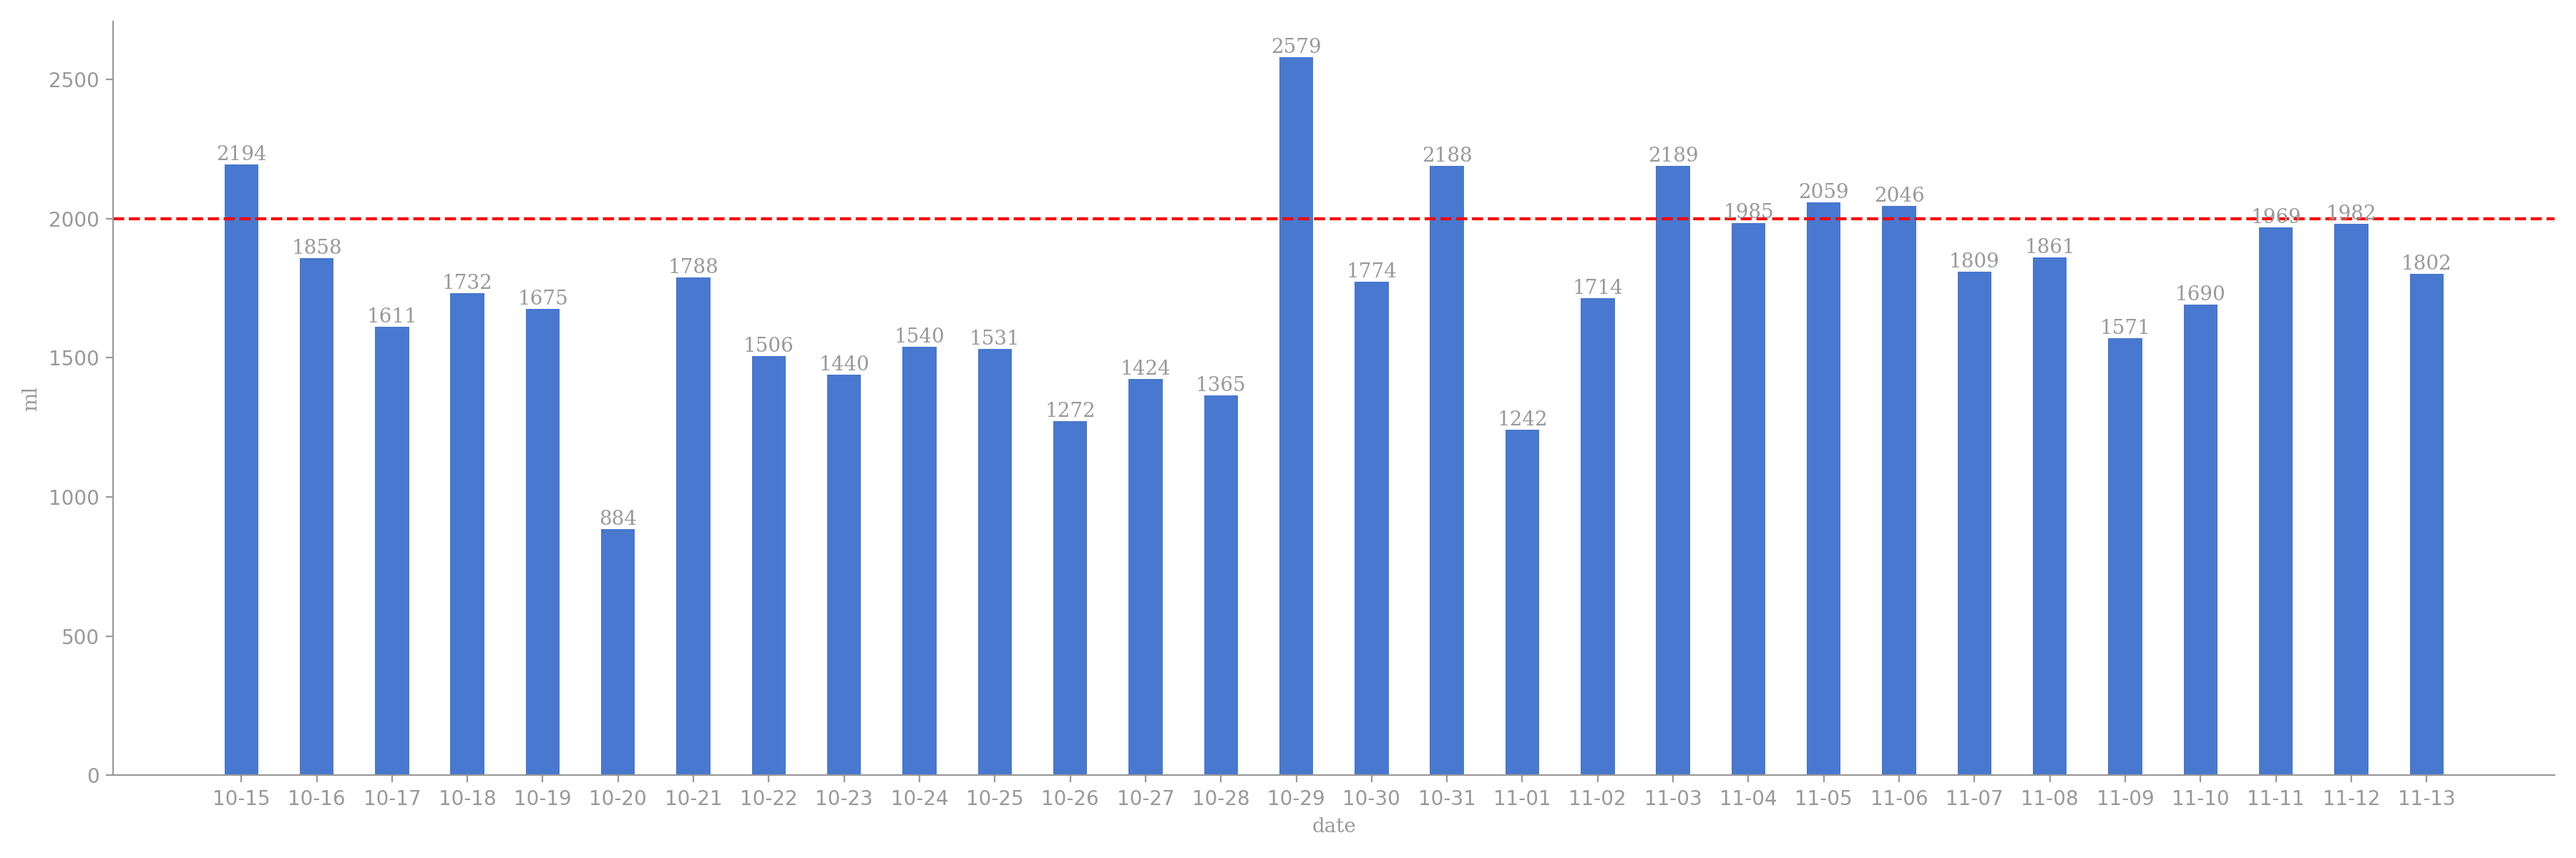
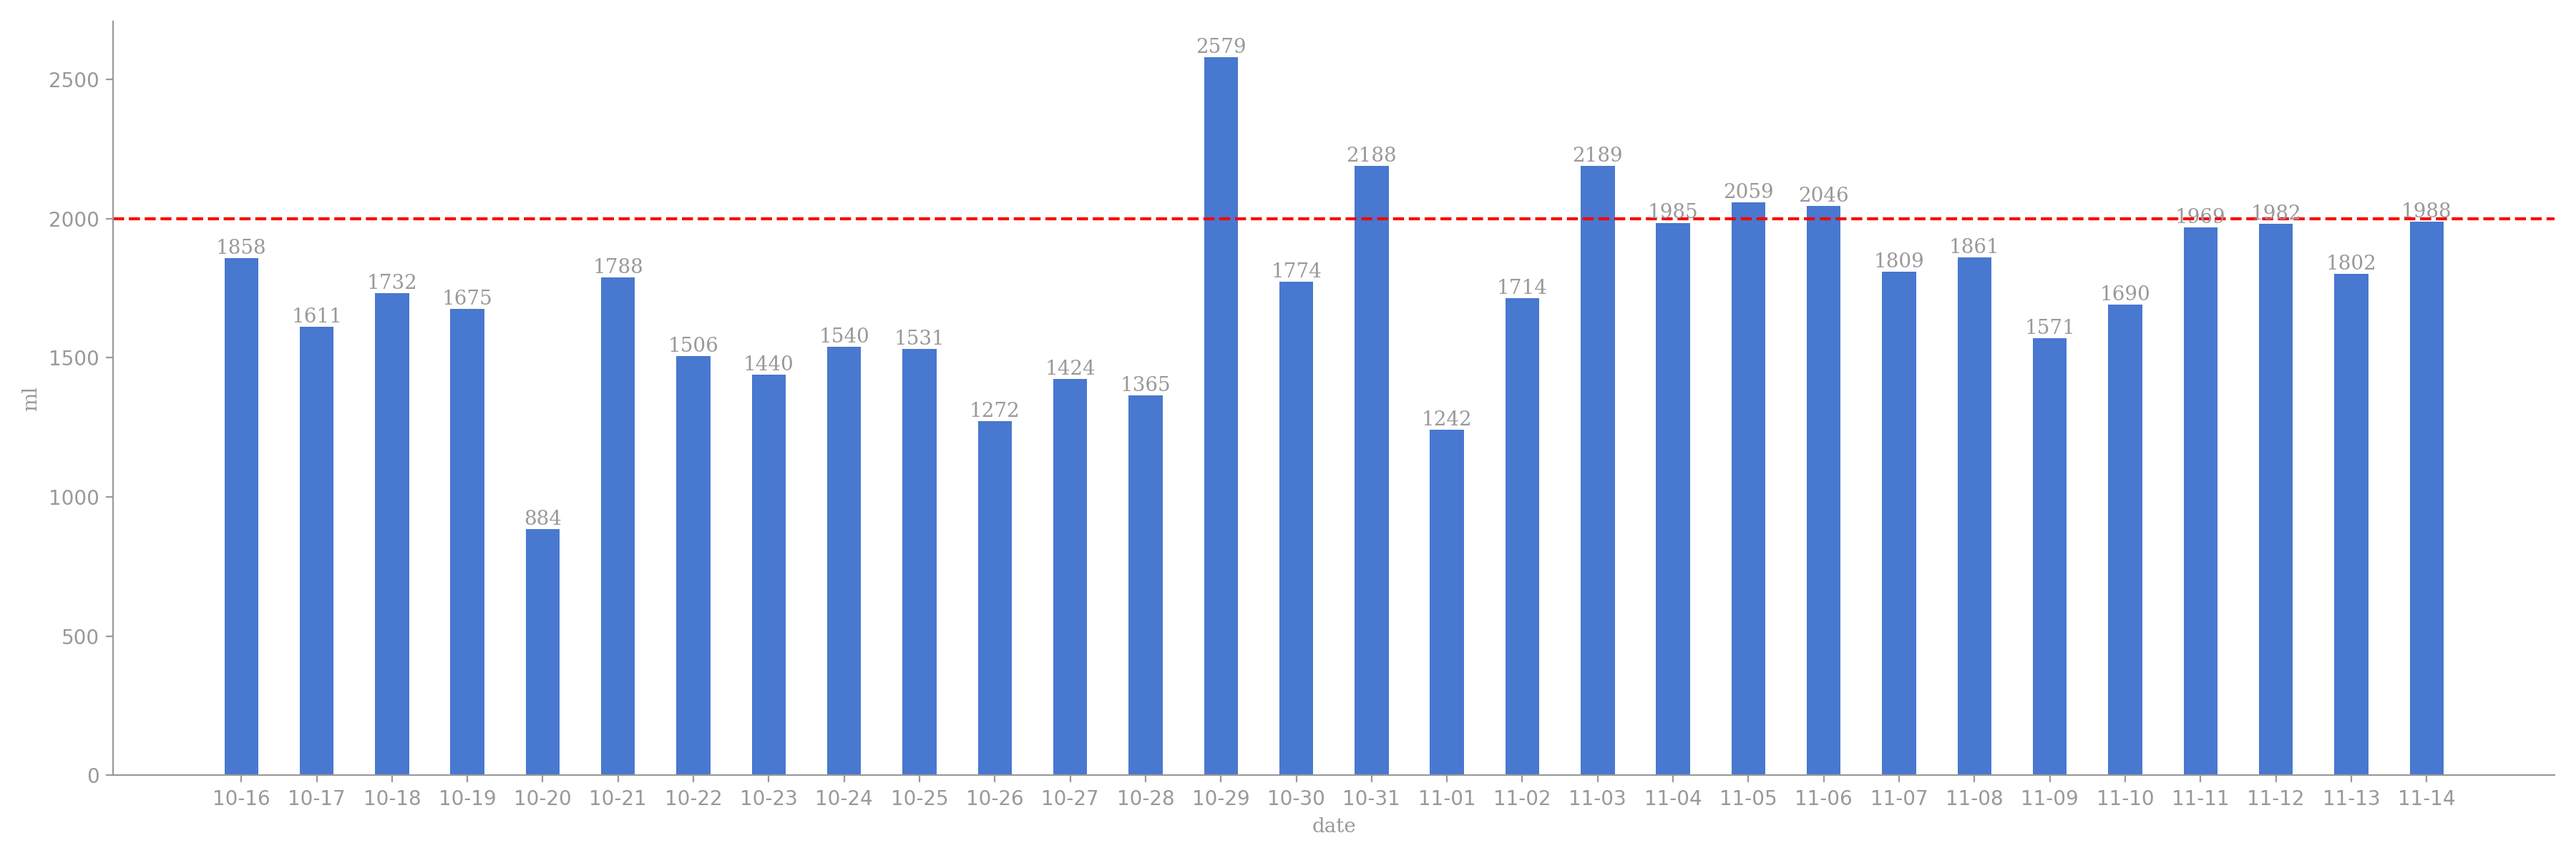
crontab auto git

Changed region(s): [[0.3733, 0.0308, 0.9644, 0.5242], [0.0622, 0.185, 0.3733, 0.6167]]

diff --git a/README.md b/README.md
@@ -1,17 +1,3 @@
-# 今日饮水数据
-
-<div align=center>
-<img src="today.png" style="zoom: 100%;" />
-
-| 今日总饮水量 | 每小时平均饮水量 |
-| :----: | :----: |
-| 1988 | 198 |
-</div>
-
-| 日期 | 00:03:13 | 00:59:48 | 07:46:56 | 07:59:14 | 10:23:49 | 10:53:48 | 11:43:01 | 13:41:15 | 14:33:33 | 14:59:17 | 17:32:31 | 19:09:49 | 20:05:30 | 23:31:40 | 23:35:34 |
-| :----: | :----: | :----: | :----: | :----: | :----: | :----: | :----: | :----: | :----: | :----: | :----: | :----: | :----: | :----: | :----: |
-| 2025-11-14 | 22 | 67 | 47 | 400 | 102 | 124 | 84 | 58 | 49 | 114 | 88 | 362 | 88 | 300 | 83 |
-
 # 近30日饮水数据
 
 <div align=center>
@@ -19,8 +5,12 @@
 
 | 总饮水量 | 日均饮水量 |
 | :----: | :----: |
-| 52280 | 1742 |
+| 52074 | 1735 |
 </div>
+
+| 日期 | all | 00:03:13 | 00:59:48 | 07:46:56 | 07:59:14 | 10:23:49 | 10:53:48 | 11:43:01 | 13:41:15 | 14:33:33 | 14:59:17 | 17:32:31 | 19:09:49 | 20:05:30 | 23:31:40 | 23:35:34 |
+| :----: | :----: | :----: | :----: | :----: | :----: | :----: | :----: | :----: | :----: | :----: | :----: | :----: | :----: | :----: | :----: | :----: |
+| 2025-11-14 | 1988 | 22 | 67 | 47 | 400 | 102 | 124 | 84 | 58 | 49 | 114 | 88 | 362 | 88 | 300 | 83 |
 
 | 日期 | all | 00:00:16 | 07:48:38 | 08:11:06 | 10:01:31 | 13:05:12 | 13:34:30 | 15:12:44 | 17:33:04 | 21:20:53 | 21:50:34 | 22:44:57 | 23:34:42 |
 | :----: | :----: | :----: | :----: | :----: | :----: | :----: | :----: | :----: | :----: | :----: | :----: | :----: | :----: |
@@ -141,8 +131,4 @@
 | 日期 | all | 00:39:38 | 08:07:23 | 08:25:43 | 08:50:30 | 10:03:03 | 11:09:48 | 12:12:59 | 13:03:39 | 13:56:17 | 14:40:51 | 15:13:27 | 15:58:02 | 17:34:15 | 18:51:00 | 19:19:10 | 20:26:49 | 21:17:37 | 21:57:02 | 23:40:31 |
 | :----: | :----: | :----: | :----: | :----: | :----: | :----: | :----: | :----: | :----: | :----: | :----: | :----: | :----: | :----: | :----: | :----: | :----: | :----: | :----: | :----: |
 | 2025-10-15 | 2194 | 43 | 214 | 104 | 79 | 203 | 104 | 200 | 87 | 164 | 91 | 83 | 79 | 72 | 163 | 102 | 23 | 200 | 94 | 89 |
-
-| 日期 | all | 00:00:18 | 07:44:42 | 08:03:24 | 08:04:41 | 08:28:40 | 08:40:45 | 08:45:57 | 09:02:12 | 09:14:42 | 09:29:01 | 10:05:13 | 10:13:01 | 10:40:42 | 11:40:01 | 11:43:16 | 12:15:49 | 13:04:49 | 13:26:26 | 13:42:58 | 13:58:55 | 15:04:53 | 15:13:43 | 15:48:17 | 16:21:29 | 17:00:09 | 17:38:57 | 18:42:14 | 19:44:37 | 20:03:19 | 21:20:57 | 23:11:58 | 23:30:08 |
-| :----: | :----: | :----: | :----: | :----: | :----: | :----: | :----: | :----: | :----: | :----: | :----: | :----: | :----: | :----: | :----: | :----: | :----: | :----: | :----: | :----: | :----: | :----: | :----: | :----: | :----: | :----: | :----: | :----: | :----: | :----: | :----: | :----: | :----: |
-| 2025-10-14 | 2971 | 73 | 116 | 184 | 216 | 34 | 94 | 61 | 31 | 89 | 88 | 216 | 26 | 102 | 81 | 73 | 22 | 32 | 62 | 56 | 31 | 62 | 83 | 98 | 77 | 81 | 62 | 78 | 400 | 101 | 81 | 87 | 74 |
 
